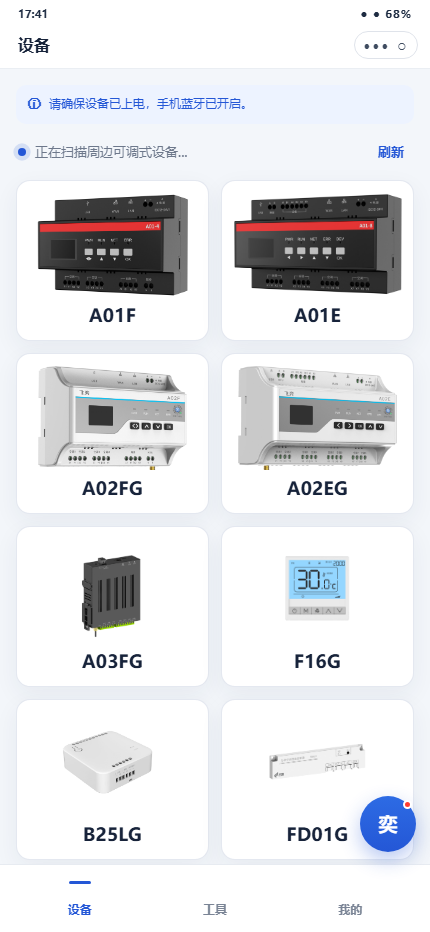
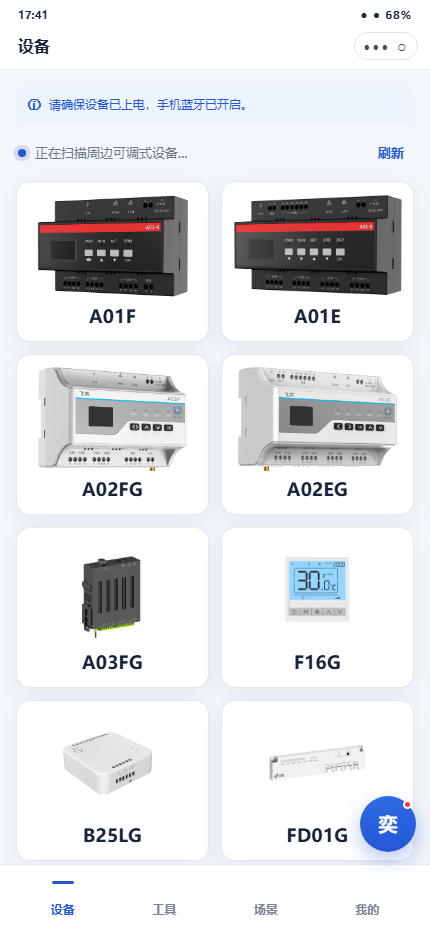
新增场景Tab（设备/工具/场景/我的四格）：8张产品方案场景卡点击进方案详情阅读页，与操作指引分工；设备页底部飞奕产品方案入口移除；常见问题答疑入口改为技术&服务（点击直接打开AI客服对话层），tool-faq页与faqList数据删除；E50侧边栏联系我们入口及孤儿页删除；tabbar列数3→4修复换行；演示导航/说明书同步（章节重编号6-9）

diff --git a/tests/browser-smoke.js b/tests/browser-smoke.js
@@ -57,7 +57,8 @@ async function assertNoHorizontalOverflow(page, route) {
     assert(Math.abs(shell.width / shell.height - 430 / 932) < 0.01, 'desktop prototype must preserve the 430:932 phone ratio');
     assert.equal(await page.locator('.product-card').count(), 10, 'Bluetooth page must render ten independent model cards');
     assert.equal(await page.locator('.scan-tip').count(), 1, 'device page must show the nearby-scan hint');
-    assert.match(await page.locator('.scheme-entry').getAttribute('href'), /tool-guide\.html/, 'device page must expose the product scheme entry');
+    assert.equal(await page.locator('.scheme-entry').count(), 0, 'device page must remove the product scheme entry');
+    assert.deepEqual(await page.locator('.tab').allTextContents(), ['设备', '工具', '场景', '我的'], 'tabbar must order device, tools, scene, mine');
     await page.locator('[data-model="A01F"] .product-head').click();
     assert.match(await page.locator('[data-model="A01F"]').getAttribute('class'), /open/);
     assert.equal(await page.locator('[data-model="A01F"] .product-type').count(), 0, 'model cards must only show image and model');
@@ -209,9 +210,10 @@ async function assertNoHorizontalOverflow(page, route) {
 
     await open(page, baseUrl, 'pages/device-e50.html?model=E50&device=FE50G-A8C4&mode=bt');
     await page.locator('#menu-trigger').click();
-    for (const label of ['切换其他产品', '检修抓码', '设备升级', '设备列表', '技术&服务', '联系我们', '工具', '我的']) {
+    for (const label of ['切换其他产品', '检修抓码', '设备升级', '设备列表', '技术&服务', '工具', '我的']) {
       assert((await page.locator('#side-menu').getByText(label, { exact: false }).count()) >= 1, `E50 sidebar must include ${label}`);
     }
+    assert.equal(await page.locator('#side-menu').getByText('联系我们').count(), 0, 'E50 sidebar must remove the contact entry');
     await page.locator('.side-nav-item', { hasText: '检修抓码' }).click();
     assert.match(await page.locator('#capture-sheet').textContent(), /抓码原因/, 'capture sheet must open from the sidebar');
 
@@ -261,13 +263,22 @@ async function assertNoHorizontalOverflow(page, route) {
     assert.equal(await page.locator('#tool-hero').count(), 1, 'tools must lead with the fluoro support query hero');
     assert.match(await page.locator('#tool-hero').textContent(), /氟机支持查询/);
     assert.equal(await page.locator('#tool-cards .tool-mini').count(), 4, 'frequent tools must render as cards');
-    assert.equal(await page.locator('#tool-menu .list-row').count(), 2, 'services menu must lead with the faq column then feedback');
+    assert.equal(await page.locator('#tool-menu .list-row').count(), 2, 'services menu must lead with tech-service then feedback');
     assert.equal(await page.getByText('专业版切换').count(), 0, 'tools must remove the pro-version switch');
-    await page.locator('#tool-menu .list-row', { hasText: '常见问题答疑' }).click();
+    await page.locator('#tool-menu .list-row', { hasText: '技术&服务' }).click();
+    await page.waitForTimeout(400);
+    assert.equal(await page.locator('.aa-chat.show').count(), 1, 'tech-service entry must open the AI assistant chat directly');
+    assert.ok((await page.locator('.aa-row').count()) >= 2, 'ai chat must render preset messages after opening from tech-service');
+    await page.locator('.aa-back').click();
+    await page.waitForTimeout(300);
+    assert.equal(await page.locator('.aa-chat.show').count(), 0, 'ai chat must close after tech-service check');
+    await open(page, baseUrl, 'pages/tab-scene.html');
+    assert.equal(await page.locator('.scene-card').count(), 8, 'scene tab must render the eight product solutions');
+    assert.equal(await page.locator('.tab.active').textContent(), '场景', 'scene tab must mark itself active');
+    await page.locator('.scene-card').first().click();
     await page.waitForLoadState('networkidle');
-    assert.ok((await page.locator('#faq-list .faq-item').count()) >= 5, 'faq page must render the maintained Q&A entries');
-    await page.locator('.faq-q').first().click();
-    assert.equal(await page.locator('.faq-item.open').count(), 1, 'faq entry must expand on tap');
+    assert.match(page.url(), /product-manual\.html\?series=a01&doc=1/, 'scene cards must open the solution reader');
+    assert.ok((await page.locator('.manual-sec').count()) >= 3, 'solution reader must render the solution sections');
     await open(page, baseUrl, 'pages/tab-tools.html');
     assert.equal(await page.locator('.aa-ball').count(), 1, 'tools page must show the ai assistant ball');
     await page.locator('.aa-ball').click();

diff --git a/assets/app/product-data.js b/assets/app/product-data.js
@@ -205,16 +205,18 @@
       { title: '远程协助', icon: '协', desc: '技术支持远程接管操作', href: 'tool-remote.html' }
     ],
     toolMenu: [
-      { title: '常见问题答疑', icon: '答', href: 'tool-faq.html' },
+      { title: '技术&服务', icon: '服', action: 'ai-service' },
       { title: '留言反馈', icon: '言', href: 'feedback.html' }
     ],
-    faqList: [
-      { q: '蓝牙搜索不到网关设备怎么办？', a: '确认网关已上电并处于配网状态（指示灯快闪）；手机蓝牙已开启并已授权小程序使用蓝牙；靠近设备 1 米内重新搜索。仍搜索不到可将网关断电重启后再试。' },
-      { q: '网关配网失败怎么排查？', a: '确认 Wi-Fi 密码输入正确（注意区分大小写）；路由器需为 2.4GHz 频段（暂不支持 5GHz）；关闭路由器 AP 隔离功能；信号较弱时先将网关移至路由器附近完成配网，再安装回原位。' },
-      { q: '平台显示网关离线，如何处理？', a: '先确认网关供电正常、指示灯状态正常；检查现场网络是否断网或更换过路由器；4G 版本确认流量卡未欠费、当地信号正常。网络恢复后网关会自动重连上线，无需重新配置。' },
-      { q: '空调无法控制或状态不更新？', a: '确认网关与空调总线接线牢固、极性正确；在调试页重新执行「空调搜索」识别内机；确认所选空调品牌协议与现场实际一致。仍异常时可通过「远程协助」联系技术支持在线排查。' },
-      { q: '远程协助功能怎么用？', a: '在工具页进入「远程协助」，开启协助码并告知飞奕技术支持；对方接入后可实时查看并代为操作你的小程序界面；协助结束后画面同步终止，对方无法再访问你的手机。' },
-      { q: '集控计费平台账号如何开通？', a: '项目交付后由飞奕技术支持统一开通主账号；如需新增子账号，可在平台「系统管理-子账户」中创建并分配项目与功能权限，或联系技术支持协助开通。' }
+    scenes: [
+      { tag: '商场 · 办公', title: '多联机集控改造方案', desc: '4/8 路多通道控制器接入室外机总线，统一监控与批量控制', products: 'A01F / A01E', series: 'a01' },
+      { tag: '园区 · 医院', title: '大体量多联机集中管控方案', desc: '第二代控制器分通道品牌配置，多品牌混装分区管理', products: 'A02FG / A02EG', series: 'a02' },
+      { tag: '分散站点', title: '无网络机房 4G 直连方案', desc: '内置 4G 控制器免拉网线，分散站点直连云端上线', products: 'A03FG', series: 'a03fg' },
+      { tag: '酒店 · 办公', title: '风机盘管集中控制改造方案', desc: '风机盘管温控器替代传统线控器，统一温控与日程策略', products: 'F16G', series: 'f16g' },
+      { tag: '已装修项目', title: '存量内机按台改造方案', desc: '单路室内机控制器线控盒内安装，即装即用按台改造', products: 'B25LG', series: 'b25lg' },
+      { tag: '商铺 · 宿舍', title: '分体机红外集控方案', desc: '红外码库控制分体空调，电流检测判定真实运行状态', products: 'FD01G', series: 'fd01g' },
+      { tag: '商铺 · 别墅', title: '小体量项目轻量接入方案', desc: '单路网关一根总线接入整套多联机，低成本实现集控', products: 'S74G', series: 's74g' },
+      { tag: '售后 · 巡检', title: '空调故障诊断服务方案', desc: '诊断设备现场读取系统参数，AI 输出故障报告与建议', products: 'E50', series: 'e50' }
     ],
     platformGuideCats: [
       {

diff --git a/pages/tab-scene.html b/pages/tab-scene.html
@@ -1,0 +1,41 @@
+<!doctype html>
+<html lang="zh-CN">
+<head><meta charset="utf-8"><meta name="viewport" content="width=device-width,initial-scale=1,viewport-fit=cover"><title>场景</title><link rel="stylesheet" href="../assets/app/app.css">
+<style>
+  .scene-intro { margin: 4px 2px 12px; color: var(--muted); font-size: 12px; line-height: 1.6; }
+  .scene-list { display: grid; gap: 10px; }
+  .scene-card { display: grid; gap: 6px; padding: 14px 15px; }
+  .scene-tag { justify-self: start; padding: 3px 8px; border-radius: 6px; background: var(--blue-soft); color: var(--blue); font-size: 10px; font-weight: 700; }
+  .scene-card strong { font-size: 14px; }
+  .scene-card small { color: var(--muted); font-size: 11px; line-height: 1.6; }
+  .scene-foot { display: flex; align-items: center; justify-content: space-between; margin-top: 2px; }
+  .scene-product { padding: 3px 8px; border: 1px solid var(--line); border-radius: 6px; color: var(--ink); font-size: 10px; font-weight: 650; }
+  .scene-arrow { color: var(--faint); font-size: 16px; }
+</style>
+</head>
+<body>
+  <main class="app-shell">
+    <div class="statusbar"><span>17:41</span><span class="status-icons">● ● 68%</span></div>
+    <header class="topbar home"><div class="topbar-title">场景</div><div class="capsule">··· ○</div></header>
+    <div class="page">
+      <div class="scene-intro">按现场场景选型，找到适合的飞奕集控方案。点击方案卡查看完整方案介绍。</div>
+      <div class="scene-list" id="scene-list"></div>
+    </div>
+    <nav class="tabbar">
+      <a class="tab" href="tab-device-bt.html">设备</a>
+      <a class="tab" href="tab-tools.html">工具</a>
+      <a class="tab active" href="tab-scene.html">场景</a>
+      <a class="tab" href="tab-mine.html">我的</a>
+    </nav>
+  </main>
+  <script src="../assets/app/product-data.js"></script>
+  <script>
+    document.getElementById('scene-list').innerHTML = GWDBG_DATA.scenes.map(function (s) {
+      return '<a class="card scene-card" href="product-manual.html?series=' + s.series + '&doc=1">' +
+        '<span class="scene-tag">' + s.tag + '</span><strong>' + s.title + '</strong><small>' + s.desc + '</small>' +
+        '<span class="scene-foot"><span class="scene-product">适用产品：' + s.products + '</span><span class="scene-arrow">›</span></span></a>';
+    }).join('');
+  </script>
+  <script src="../assets/app/ai-assistant.js"></script>
+</body>
+</html>

diff --git a/assets/app/app.css b/assets/app/app.css
@@ -172,18 +172,6 @@ a { color: inherit; text-decoration: none; }
   font-weight: 650;
 }
 .stack { display: grid; gap: 10px; }
-.scheme-entry {
-  display: flex; align-items: center; gap: 12px;
-  margin-top: 14px; padding: 16px;
-  border-radius: 14px; color: #fff;
-  background: linear-gradient(135deg, #2457d6 0%, #4a7ef0 100%);
-  box-shadow: 0 10px 24px rgba(36, 87, 214, 0.22);
-}
-.scheme-entry:active { transform: scale(.985); }
-.scheme-entry-main { flex: 1; min-width: 0; display: grid; gap: 5px; }
-.scheme-entry-main strong { font-size: 15px; font-weight: 750; }
-.scheme-entry-main small { font-size: 11px; opacity: .84; }
-.scheme-entry-arrow { font-size: 19px; opacity: .8; }
 .product-grid { display: grid; grid-template-columns: repeat(2, minmax(0, 1fr)); gap: 12px; align-items: start; }
 .card {
   background: var(--surface);
@@ -260,7 +248,7 @@ a { color: inherit; text-decoration: none; }
   left: 0; right: 0; bottom: 0;
   min-height: 68px;
   display: grid;
-  grid-template-columns: repeat(3, 1fr);
+  grid-template-columns: repeat(4, 1fr);
   padding: 8px 12px max(8px, env(safe-area-inset-bottom));
   background: rgba(255,255,255,.97);
   border-top: 1px solid var(--line);

diff --git a/tests/visual-check-remote.js b/tests/visual-check-remote.js
@@ -67,7 +67,7 @@ function startServer() {
   await page.waitForTimeout(500);
   await shot('10-sidebar');
 
-    await page.goto(`${baseUrl}/pages/tab-device-bt.html`, { waitUntil: 'networkidle' });
+    await page.goto(`${baseUrl}/pages/tab-device-bt.html?pick=1`, { waitUntil: 'networkidle' });
   await shot('15-device-home');
   await page.evaluate(() => { const el = document.querySelector('.app-content'); el.scrollTop = el.scrollHeight; });
   await shot('15b-device-promo');
@@ -81,10 +81,8 @@ function startServer() {
   await page.goto(`${baseUrl}/pages/platform-videos.html?cat=jf`, { waitUntil: 'networkidle' });
   await shot('21-platform-videos-jf');
 
-  await page.goto(`${baseUrl}/pages/tool-faq.html`, { waitUntil: 'networkidle' });
-  await page.locator('.faq-q').nth(0).click();
-  await page.locator('.faq-q').nth(2).click();
-  await shot('22-tool-faq');
+  await page.goto(`${baseUrl}/pages/tab-scene.html`, { waitUntil: 'networkidle' });
+  await shot('22-tab-scene');
 
   await page.goto(`${baseUrl}/pages/tool-errcode.html`, { waitUntil: 'networkidle' });
   await shot('23-tool-errcode');

diff --git a/pages/tab-tools.html b/pages/tab-tools.html
@@ -18,7 +18,7 @@
       <section class="card list-card" id="tool-menu"></section>
     </div>
     <nav class="tabbar">
-      <a class="tab" href="tab-device-bt.html">设备</a><a class="tab active" href="tab-tools.html">工具</a><a class="tab" href="tab-mine.html">我的</a>
+      <a class="tab" href="tab-device-bt.html">设备</a><a class="tab active" href="tab-tools.html">工具</a><a class="tab" href="tab-scene.html">场景</a><a class="tab" href="tab-mine.html">我的</a>
     </nav>
   </main>
   <div class="toast" id="toast"></div>
@@ -44,6 +44,10 @@
       var action = event.target.closest('[data-action]');
       if (!action) return;
       event.preventDefault();
+      if (action.dataset.action === 'ai-service') {
+        if (window.GWDBG_AI_ASSISTANT) window.GWDBG_AI_ASSISTANT.open();
+        return;
+      }
       var toast = document.getElementById('toast');
       toast.textContent = action.dataset.action === 'wechat' ? '飞奕公众号' : '使用说明';
       toast.classList.add('show');

diff --git a/pages/tab-device-bt.html b/pages/tab-device-bt.html
@@ -17,11 +17,11 @@
         <button class="text-button" type="button" id="refresh">刷新</button>
       </div>
       <div class="product-grid" id="product-list"></div>
-      <a class="scheme-entry" href="tool-guide.html"><span class="scheme-entry-main"><strong>飞奕产品方案</strong><small>全系列产品介绍 · 安装调试视频 · 方案文档</small></span><span class="scheme-entry-arrow">›</span></a>
     </div>
     <nav class="tabbar">
       <a class="tab active" href="tab-device-bt.html">设备</a>
       <a class="tab" href="tab-tools.html">工具</a>
+      <a class="tab" href="tab-scene.html">场景</a>
       <a class="tab" href="tab-mine.html">我的</a>
     </nav>
   </main>

diff --git a/tests/visual-check.js b/tests/visual-check.js
@@ -52,7 +52,6 @@ const server = http.createServer((req, res) => {
     ['e50-upgrade-progress', `pages/device-e50-upgrade.html${q}`, async () => { await page.locator('#start-upgrade').click(); await page.waitForTimeout(2600); }],
     ['e50-devices', `pages/device-e50-devices.html${q}`],
     ['e50-service', `pages/device-e50-service.html${q}`],
-    ['e50-contact', `pages/device-e50-contact.html${q}`],
     ['e50-guide', `pages/device-e50-guide.html${q}`],
     ['tools-ai-ball', 'pages/tab-tools.html'],
     ['tools-ai-chat', 'pages/tab-tools.html', async () => { await page.locator('.aa-ball').click(); await page.waitForTimeout(400); }],

diff --git a/pages/tab-mine.html b/pages/tab-mine.html
@@ -23,7 +23,7 @@
       <div class="mine-version" id="mine-version"></div>
     </div>
     <nav class="tabbar">
-      <a class="tab" href="tab-device-bt.html">设备</a><a class="tab" href="tab-tools.html">工具</a><a class="tab active" href="tab-mine.html">我的</a>
+      <a class="tab" href="tab-device-bt.html">设备</a><a class="tab" href="tab-tools.html">工具</a><a class="tab" href="tab-scene.html">场景</a><a class="tab active" href="tab-mine.html">我的</a>
     </nav>
     <div class="modal-layer" id="logout-modal">
       <div class="modal-mask" data-logout-close></div>

diff --git a/assets/app/e50.js b/assets/app/e50.js
@@ -292,8 +292,7 @@
     ['capture', '检修抓码', '', '抓', 'c4'],
     ['upgrade', '设备升级', 'device-e50-upgrade.html', '升', 'c2'],
     ['devices', '设备列表', 'device-e50-devices.html', '列', 'c1'],
-    ['service', '技术&服务', 'device-e50-service.html', '服', 'c5'],
-    ['contact', '联系我们', 'feedback.html', '系', 'c3']
+    ['service', '技术&服务', 'device-e50-service.html', '服', 'c5']
   ];
   function renderMenu(active) {
     var host = document.getElementById('side-menu');

diff --git a/interactions.js b/interactions.js
@@ -327,6 +327,7 @@
               <a href="tab-device-bt.html">设备·蓝牙</a>
               <a href="tab-device-4g.html">设备·4G</a>
               <a href="tab-tools.html">工具</a>
+              <a href="tab-scene.html">场景</a>
               <a href="tab-mine.html">我的</a>
               <a href="product-catalog.html">型号目录</a>
             </div>
